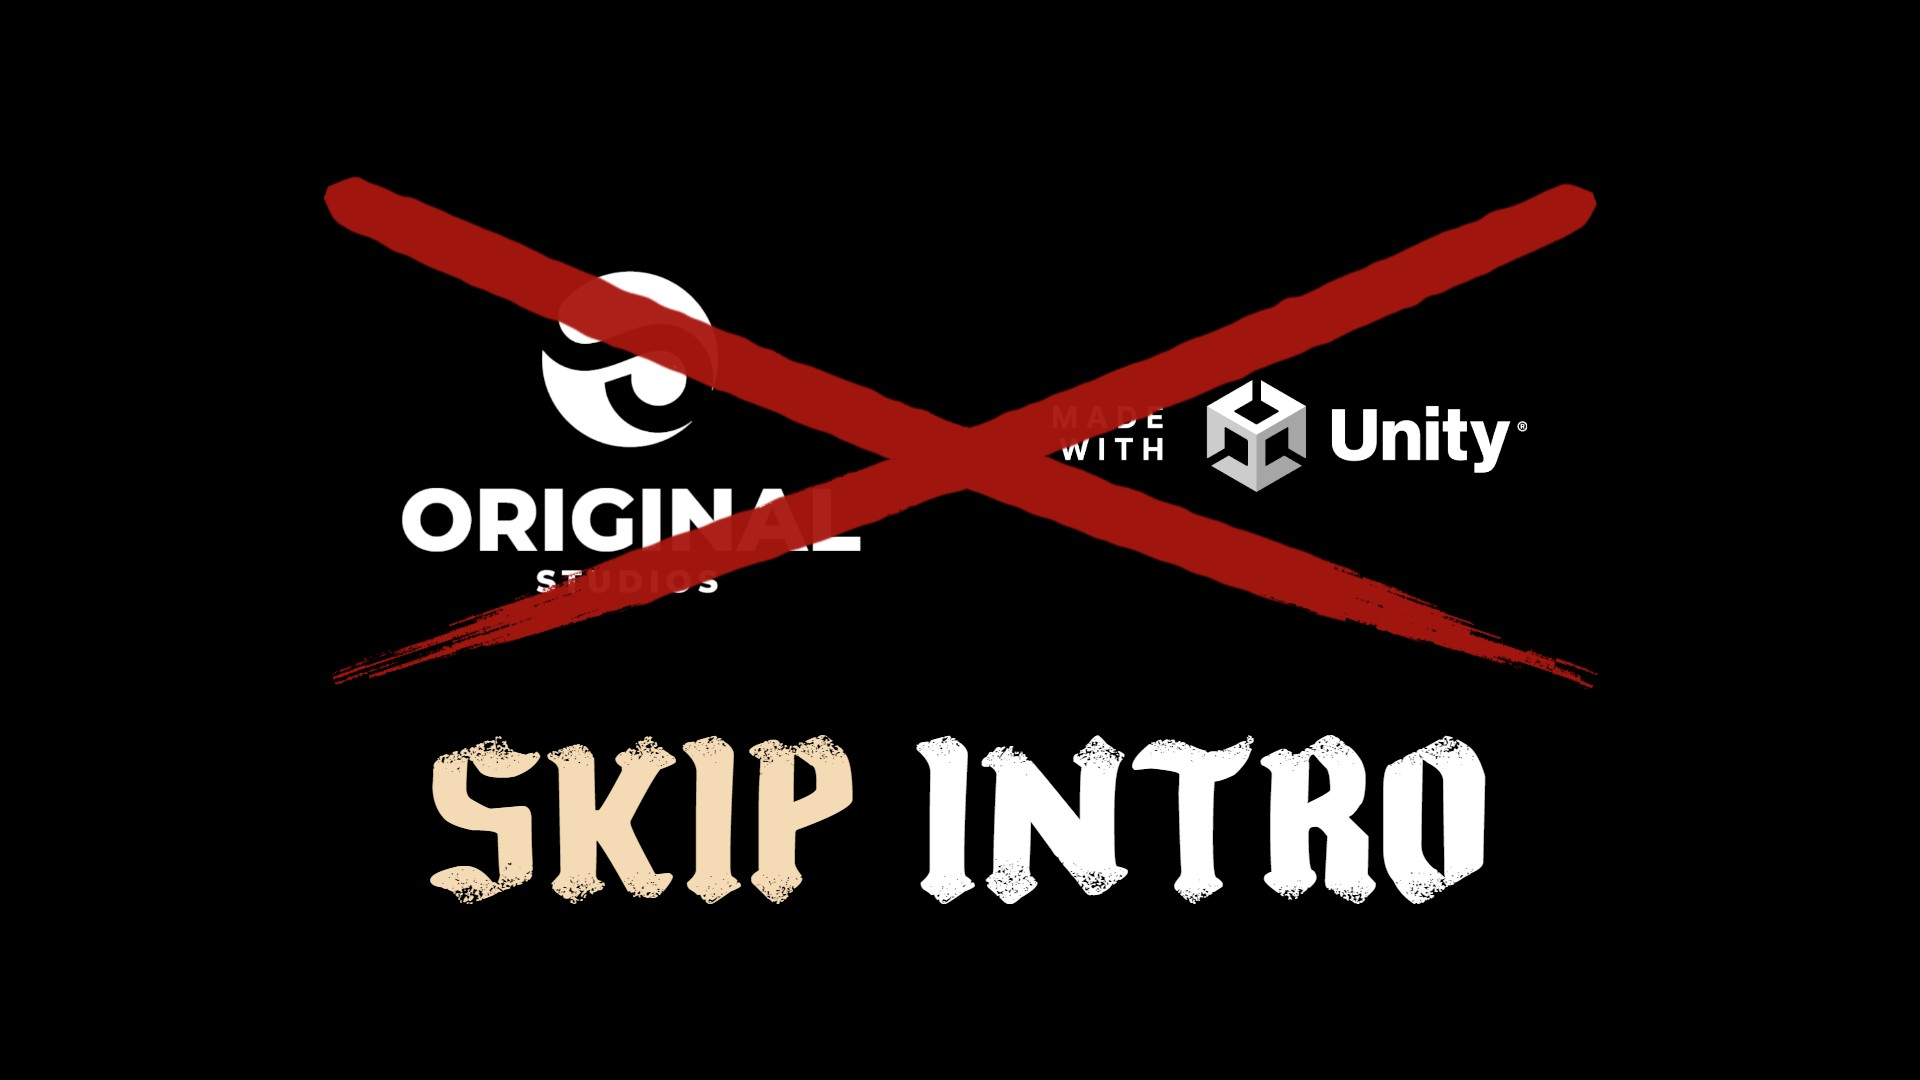
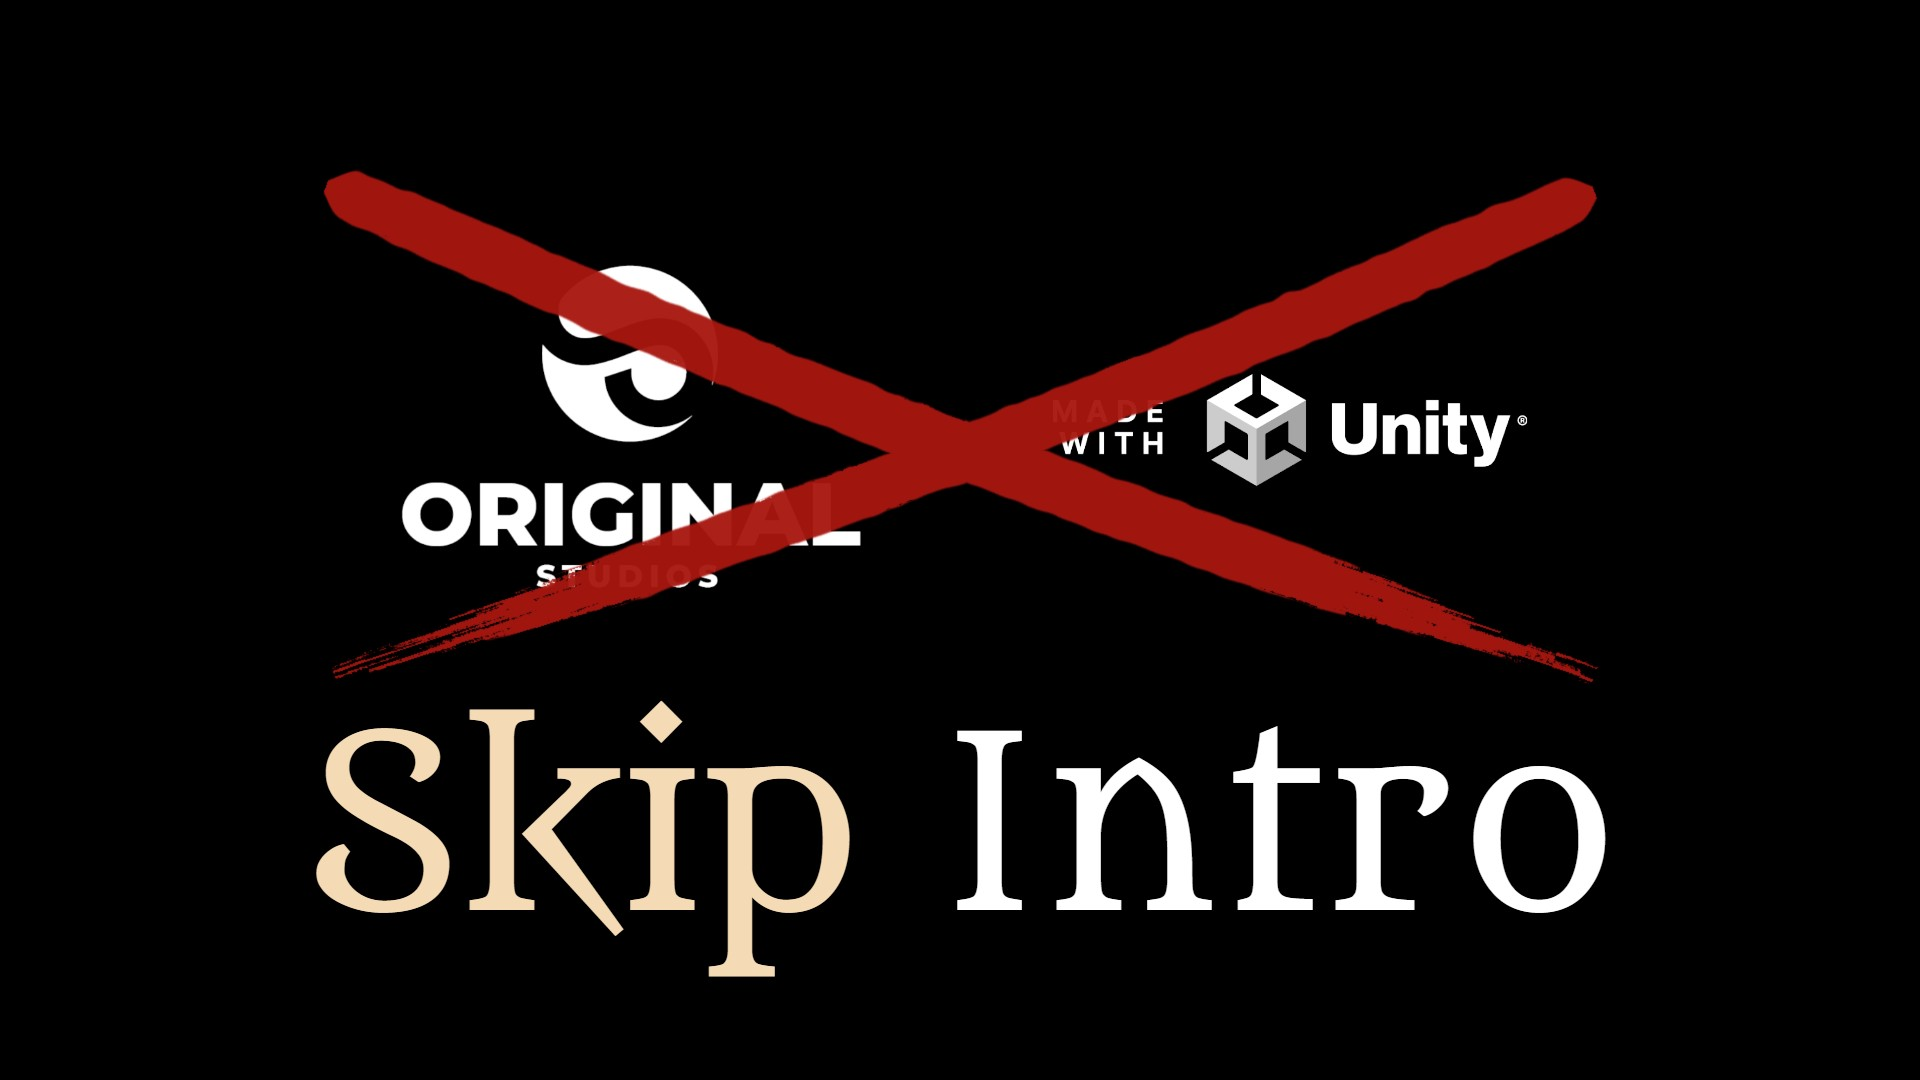
Set the thumbnail title in Metamorphous, and name the font in the image notes

diff --git a/nexus/images/README.md b/nexus/images/README.md
@@ -1,7 +1,7 @@
 # Images
 
 - `content.json` - the logos, the cross, and the title of the thumbnail and the page background, in the crossed template. The `nexus-mod-images` tool renders both images from it.
-- `01-thumb.jpg` - 1920x1080, the first gallery image, so Nexus uses it as the thumbnail in the mods grid. The two intro logos on black, crossed out with one red painted X (the mark of a plague house), with the title "Skip Intro" in The Inquisition under them.
+- `01-thumb.jpg` - 1920x1080, the first gallery image, so Nexus uses it as the thumbnail in the mods grid. The two intro logos on black, crossed out with one red painted X (the mark of a plague house), with the title "Skip Intro" in Metamorphous under them.
 - `02-studio-logo.jpg` - 1920x1080, gallery. `src/splash-studio.png` scaled down: the Original Studios logo screen that the mod skips.
 - `03-unity-logo.jpg` - 1920x1080, gallery. `src/splash-unity.png` scaled down: the "Made with Unity" logo screen that the mod skips.
 - `banner.jpg` - 1300x372, the page background. The crossed logos of the thumbnail, smaller, in the center on black.
@@ -10,6 +10,6 @@
 
 - `src/splash-studio.png`, `src/splash-unity.png` - the two logo screens as the game drew them, captured from the game window at 3840x2160 on 2026-11-12, game version 0.12.7, with no mod loaded. Each is the frame with the logo at full brightness. The capture holds no mouse cursor and no Steam overlay.
 - `src/x-paint.png` - the red painted X (1340x590, a PNG with alpha), drawn by a script of the dev workspace.
-- The title font is The Inquisition by Woodcutter Manero (woodcutter.es). It is not in this repo: the render uses the copy installed on the machine. Its terms say free for personal use, with a commercial license from the designer.
+- The title font is Metamorphous (Google Fonts, SIL Open Font License). The render takes it from the font package of the image tool, so it is not in this repo.
 
 The description has no inline image. If one is added, upload the file to the Nexus images of the mod first and use the hosted URL.
